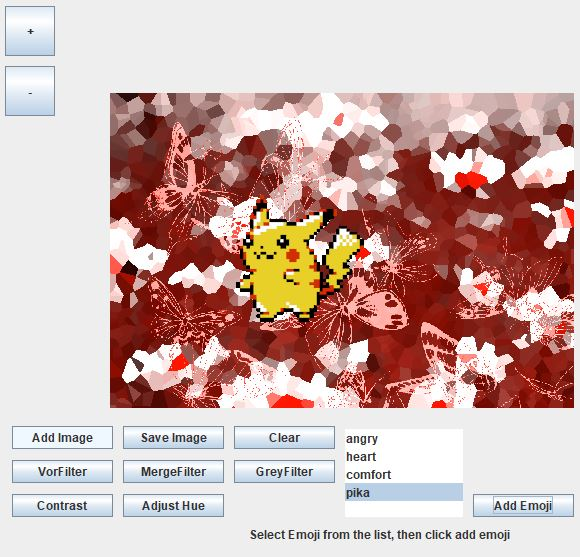
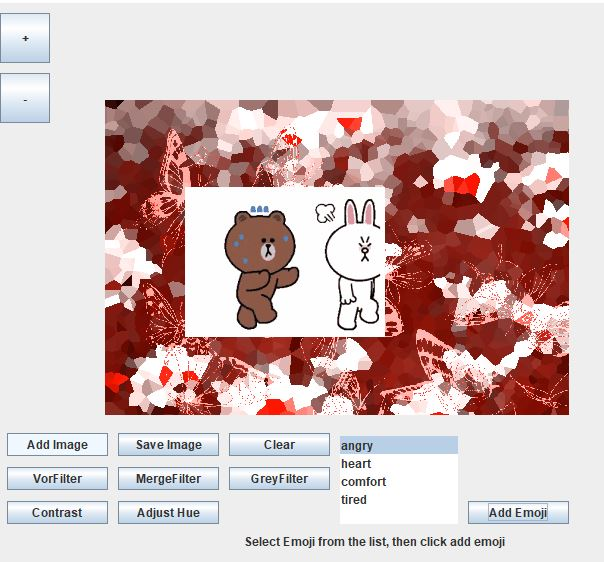
update

diff --git a/src/WindowBuilder.java b/src/WindowBuilder.java
@@ -162,11 +162,10 @@ public class WindowBuilder {
 	    btnAddEmoji.addActionListener(new emojiListener());
         
 	    //create an emoji list name and display on the Jlist 
-	    String[] emojiName = new String[4];
+	    String[] emojiName = new String[3];
 	    emojiName[0] = "angry";
 	    emojiName[1] = "heart";
 	    emojiName[2] = "comfort";
-	    emojiName[3] = "pika";
 	    list = new JList(emojiName);
 	    list.setBounds(345, 433, 118, 88);
 	    frame.getContentPane().add(list);
@@ -300,6 +299,9 @@ public class WindowBuilder {
 			File f = createFileChooser(btnMerge);
 			BufferedImage toolImage;
 			try {
+				if (f == null) {
+					return;
+				}
 				toolImage = ImageIO.read(f);
 				MergeFilter Merge = new MergeFilter();
 				BufferedImage MergeImage = Merge.MergeImage(processImage, toolImage);
